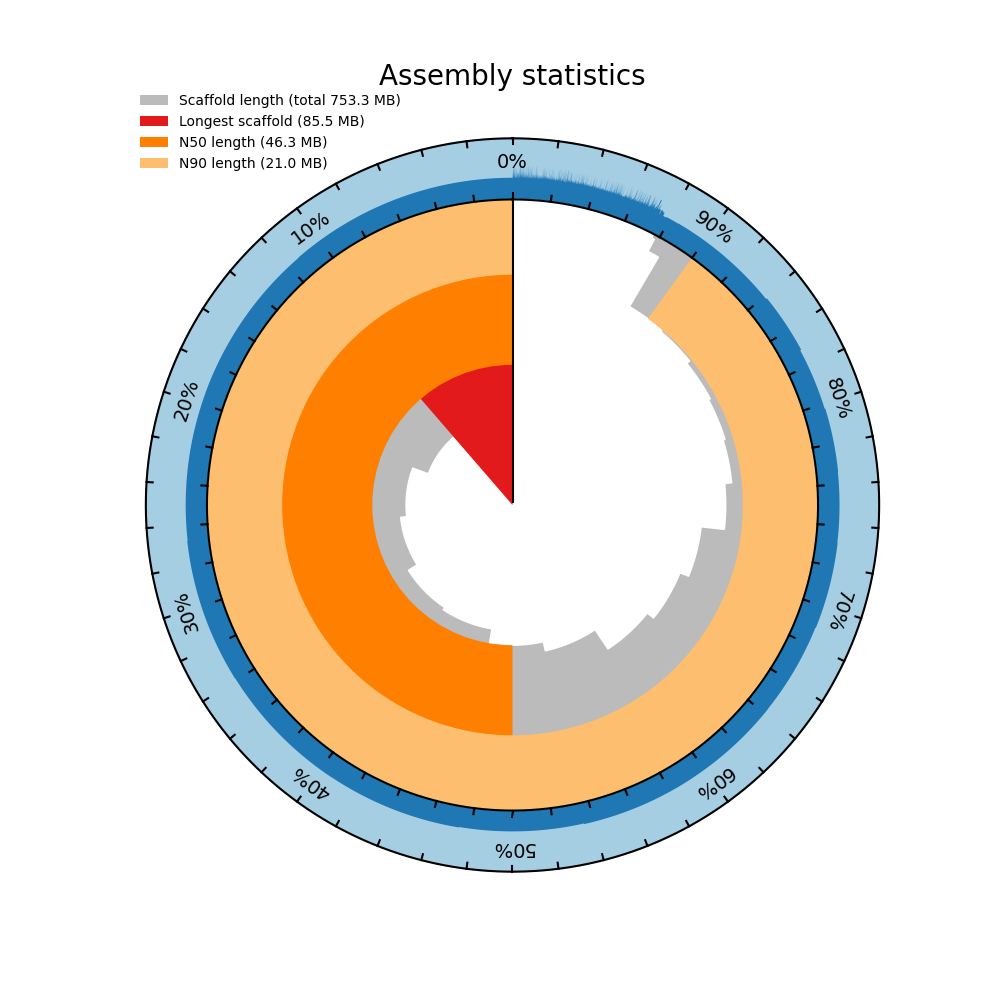
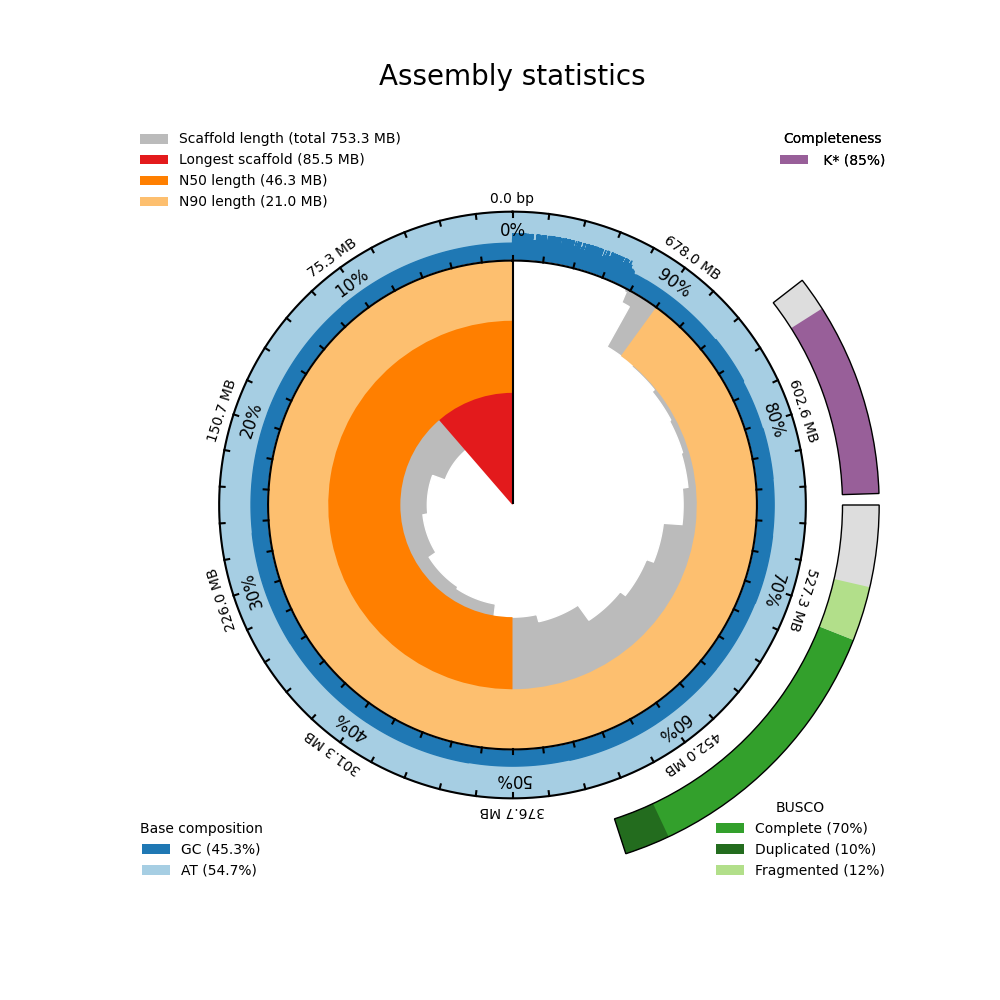
update

diff --git a/pysnail.py b/pysnail.py
@@ -15,12 +15,14 @@ def read_fasta(filepath):
 
     with open(filepath) as handle:
         for record in SeqIO.parse(handle, "fasta"):
-            GC = SeqUtils.GC(record.seq)
+            sequence = record.seq.upper()
+            GC = SeqUtils.GC(sequence)
             length = len(record.seq)
-            data.append((length, GC))
+            N = 100*(sequence.count("N")/length)
+            data.append((length, GC, N))
             total_size += length
 
-    df = pd.DataFrame(data, columns=["length", "GC"])
+    df = pd.DataFrame(data, columns=["length", "GC", "N"])
 
     df = df.sort_values("length", ascending=False)
     df = df.reset_index(drop=True)
@@ -42,6 +44,7 @@ def read_fasta(filepath):
     df["angle"] = df["angle"].cumsum()
     df["cumlength"] = df["length"].cumsum()
 
+    print(df)
     return df, total_size, largest
 
 
@@ -60,27 +63,36 @@ def assembly_stats(df, assembly_size):
 
 
 def make_plot(args, df, total_size, largest, n50, n90):
-    offset = 0.5*np.pi
-    theta = []
-    theta_bg = []
-    r = []
-    gc_r = []
-    r_bg = []
-    r_gc_bg = []
-    pos = 1
+    offset = 0.5*np.pi # angle offset to make plot vertical
+    theta = [] # angle for scaffold bins
+    theta_bg = [] # angle for background bins (slightly different to theta, need to fix and merge)
+    r = [] # size of scaffold for height, used to create negative space
+    n_r = [] # size of N for scaffold
+    gc_r = [] # size of gc for scaffold
+    r_bg = [] # for background of scaffolds
+    r_gc_bg = [] # gc background (ends up being AT)
+    optional_offset = 135
+
+    # temp
+    BUSCO_SCORES = (70, 10, 12)
+    
+
+    stepsize = total_size * 0.001 # to make sure plot doesn't degrade at low total sizes
 
     bar_offset = offset + 2*np.pi*(largest/total_size)/2
 
-    for i in range(1, total_size, 100000):
+    for i in range(1, total_size, int(stepsize)):
         theta_bg.append(offset + 2*np.pi/(total_size/i))
         r_bg.append(100)
         r_gc_bg.append(120)
 
+    pos = 1
     for row in df.iterrows():
-        for i in range(pos, int(row[1]["cumlength"]), 100000):
+        for i in range(pos, int(row[1]["cumlength"]), int(stepsize)):
             theta.append(offset + 2*np.pi/(total_size/i))
             r.append(100*((largest - row[1]["length"])/largest))
-            gc_r.append(100 + row[1]["GC"]*0.2)
+            n_r.append(100 + row[1]["N"]*0.2)
+            gc_r.append(100 + row[1]["GC"]*0.2 + row[1]["N"]*0.2)
         pos += int(row[1]["length"])
 
     plt.figure(figsize=(10, 10))
@@ -89,12 +101,15 @@ def make_plot(args, df, total_size, largest, n50, n90):
 
     plt.axis('off')
 
-    ax.fill(theta_bg, r_gc_bg, color="#a6cee3")
-    ax.fill(theta, gc_r, color = "#1f78b4")
+    ax.fill(theta_bg, r_gc_bg, color="#a6cee3") # gc background col
+    ax.fill(theta, gc_r, color = "#1f78b4") # gc col
+    ax.fill(theta, n_r, color = "#dddddd") # N col
 
     ax.fill(theta_bg, r_bg, color="#bbbbbb")  # grey background of scaffolds
     ax.fill(theta, r, color="#ffffff")  # negative space of scaffolds
 
+    gc_bar = ax.bar(0, 0, color = "#1f78b4")
+    at_bar = ax.bar(0, 0, color = "#a6cee3")
     scaffolds_bar = ax.bar(0, 0, color="#bbbbbb")
 
     # plot the largest scaffold
@@ -132,21 +147,117 @@ def make_plot(args, df, total_size, largest, n50, n90):
         ax.plot([offset + np.radians(i), offset + np.radians(i)],
                 [118, 120], color="black")
 
+    if True:
+        # BUSCO optional bar plot
+        ax.bar(
+            x = 1.6 * np.pi,
+            align = "edge",
+            height = 15,
+            width = 0.4 * np.pi,
+            bottom = optional_offset,
+            color = "#dddddd")
+
+        complete_bar = ax.bar(x = 1.6 * np.pi,
+        align = "edge",
+        height = 15,
+        width = BUSCO_SCORES[0]/100 * 0.4 * np.pi,
+        bottom = optional_offset,
+        color = "#33a02c")
+
+        duplicated_bar = ax.bar(x = 1.6 * np.pi,
+        align = "edge",
+        height = 15,
+        width = BUSCO_SCORES[1]/100 * 0.4 * np.pi,
+        bottom = optional_offset,
+        color = "#236c1e")
+
+        fragmented_bar = ax.bar(x = 1.6 * np.pi + (BUSCO_SCORES[0]/100 * 0.4 * np.pi), # offset by size of complete
+        align = "edge",
+        height = 15,
+        width = BUSCO_SCORES[2]/100 * 0.4 * np.pi,
+        bottom = optional_offset,
+        color = "#b2df8a")
+
+        ax.bar(
+            x = 1.6 * np.pi,
+            align = "edge",
+            height = 15,
+            width = 0.4 * np.pi,
+            bottom = optional_offset,
+            fill = False,
+            edgecolor = "black")
+
+    if True:
+        # kmer completeness
+        ax.bar(
+            x = 0.01*np.pi,
+            align = "edge",
+            height = 15,
+            width = 0.2 * np.pi,
+            bottom = optional_offset,
+            color = "#dddddd")
+
+        kmer_bar = ax.bar(
+            x = 0.01*np.pi,
+            align = "edge",
+            height = 15,
+            width = 0.85 * 0.2 * np.pi,
+            bottom = optional_offset,
+            color = "#985f99")
+        
+        ax.bar(
+            x = 0.01*np.pi,
+            align = "edge",
+            height = 15,
+            width = 0.2 * np.pi,
+            bottom = optional_offset,
+            fill = False,
+            edgecolor = "black")
+
     # apply percentage labels to GC axis
     for i in range(0, 360, 36):
         ax.text(offset + np.radians(i), 112,
-                f"{int(100*(i/360))}%", rotation=i, ha="center", va="center", fontsize=14)
+                f"{int(100*(i/360))}%", rotation=i, ha="center", va="center", fontsize=12)
+        ax.text(offset + np.radians(i), 125,
+                f"{human_readable(total_size*(i/360))}", rotation = i, ha = "center", va = "center", fontsize = 10)
 
     plt.title(args.title, fontsize=20)
 
-    plt.legend([scaffolds_bar, largest_bar, n50_bar, n90_bar], [
+    stats_legend = plt.legend([scaffolds_bar, largest_bar, n50_bar, n90_bar], [
         f"Scaffold length (total {human_readable(total_size)})",
         f"Longest scaffold ({human_readable(largest)})",
         f"N50 length ({human_readable(n50)})",
         f"N90 length ({human_readable(n90)})"],
         loc=2,
-        bbox_to_anchor=(0, 1.05),
         frameon=False)
+
+    ax = plt.gca().add_artist(stats_legend)
+
+    busco_legend = plt.legend([complete_bar, duplicated_bar, fragmented_bar], [
+        f"Complete ({BUSCO_SCORES[0]}%)",
+        f"Duplicated ({BUSCO_SCORES[1]}%)",
+        f"Fragmented ({BUSCO_SCORES[2]}%)"],
+        title = "BUSCO",
+        loc = 4,
+        frameon = False)
+
+    ax = plt.gca().add_artist(busco_legend)
+
+    bases_legend = plt.legend([gc_bar, at_bar], [
+        f"GC (45.3%)",
+        f"AT (54.7%)"],
+        title = "Base composition",
+        loc = 3,
+        frameon = False)
+
+    ax = plt.gca().add_artist(bases_legend)
+
+    kmer_legend = plt.legend([kmer_bar], [f" K* (85%)"],
+        title = "Completeness",
+        loc = 1,
+        frameon = False)
+
+    ax = plt.gca().add_artist(kmer_legend)
 
     plt.savefig(args.outfile)
 
